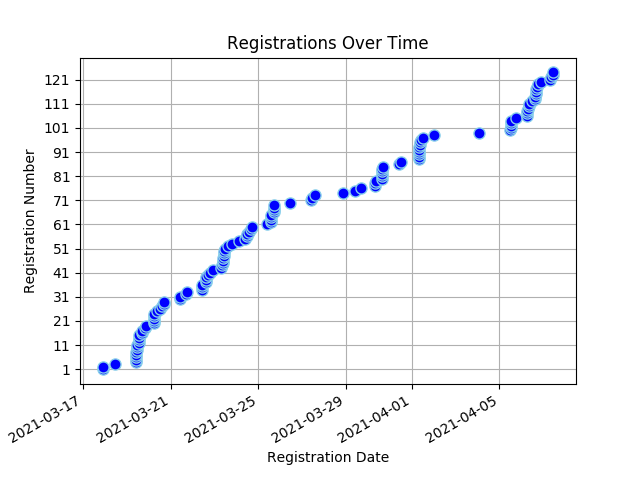
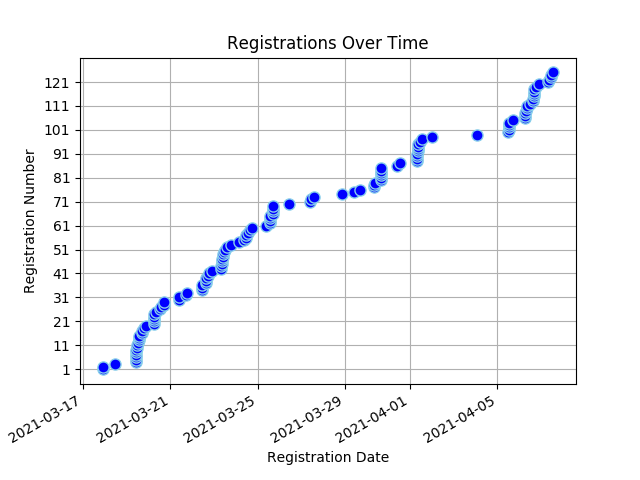
Registree stats backup on Wed 07 Apr 2021 13:58:55 SAST

diff --git a/content/registrees/_index.md b/content/registrees/_index.md
@@ -3,7 +3,7 @@ title: Registration Stats
 draft: false
 ---
 
-<ul><li><strong>Number of Registrees</strong>: 124</li>
+<ul><li><strong>Number of Registrees</strong>: 125</li>
 
 <li><strong>Number of Clubs</strong>: 46</li>
 
@@ -33,6 +33,6 @@ draft: false
         </tr>
     </thead>
     <tbody>
-<tr><td>Natalie Abrahams</td><td>Cape Town</td><td>410W</td></tr><tr><td>Linda Anderson</td><td>George</td><td>410W</td></tr><tr><td>Linda Baumgarten</td><td>Sea Point</td><td>410W</td></tr><tr><td>Ulrike Behrens</td><td>Windhoek</td><td>410W</td></tr><tr><td>Valencia Beukes-Williams</td><td>Kuilsriver</td><td>410W</td></tr><tr><td>JOSE BRAGA BORGES</td><td>Malmesbury</td><td>410W</td></tr><tr><td>Paul Brauteseth</td><td>Port Shepstone</td><td>410E</td></tr><tr><td>Nelle Buhrmann</td><td>Sea Point</td><td>410W</td></tr><tr><td>Herman Cadman</td><td>Stellenbosch</td><td>410W</td></tr><tr><td>Linda Ann Cannone</td><td>Fish Hoek</td><td>410W</td></tr><tr><td>Sue Charles</td><td>Tokai</td><td>410W</td></tr><tr><td>Perry Chetty</td><td>East Coast</td><td>410E</td></tr><tr><td>Esme Cornelius</td><td>Kuilsriver</td><td>410W</td></tr><tr><td>Sharon Cottle</td><td>Groote Schuur</td><td>410W</td></tr><tr><td>Peter Daniel</td><td>Gordons Bay</td><td>410W</td></tr><tr><td>Norma Daniel</td><td>Gordons Bay</td><td>410W</td></tr><tr><td>Engela de Kock</td><td>Swellendam</td><td>410W</td></tr><tr><td>Francois de Kock</td><td>Swellendam</td><td>410W</td></tr><tr><td>ANDRE DE VILLIERS</td><td>Malgas</td><td>410W</td></tr><tr><td>Peggy Du Plooy</td><td>Krugersdorp</td><td>410E</td></tr><tr><td>Ivan Du Plooy</td><td>Krugersdorp</td><td>410E</td></tr><tr><td>Desiree du Toit</td><td>Ramsgate</td><td>410E</td></tr><tr><td>Natalie Etridge</td><td>Sedgefield</td><td>410W</td></tr><tr><td>AIDAN Ewers</td><td>Newlands</td><td>410W</td></tr><tr><td>Roger Fahrbach</td><td>Windhoek</td><td>410W</td></tr><tr><td>Beate Fahrbach</td><td>Windhoek</td><td>410W</td></tr><tr><td>Charles Flanagan</td><td>Tokai</td><td>410W</td></tr><tr><td>Jules Flanagan</td><td>Tokai</td><td>410W</td></tr><tr><td>Martin Froise</td><td>Letaba Tzaneen</td><td>410E</td></tr><tr><td>Valerie Graham</td><td>Nelspruit</td><td>410E</td></tr><tr><td>Mike Graham</td><td>Nelspruit</td><td>410E</td></tr><tr><td>Viv Grater</td><td>Sedgefield</td><td>410W</td></tr><tr><td>Mattheus Groves</td><td>Sedgefield</td><td>410W</td></tr><tr><td>Barbara Haywood</td><td>Eden</td><td>410W</td></tr><tr><td>Mike Heathcote</td><td>Port Shepstone</td><td>410E</td></tr><tr><td>Dorothy Hess</td><td>Kuilsriver</td><td>410W</td></tr><tr><td>Wendy Higgins</td><td>Wilro Park</td><td>410E</td></tr><tr><td>Jacqui Hocking</td><td>Midrand</td><td>410E</td></tr><tr><td>Cliff Hocking</td><td>Midrand</td><td>410E</td></tr><tr><td>Liz Houston</td><td>Table View</td><td>410W</td></tr><tr><td>John Houston</td><td>Table View</td><td>410W</td></tr><tr><td>Dawid Jacobs</td><td>Durbanville</td><td>410W</td></tr><tr><td>Jean Jacobs</td><td>Mitchells Plain</td><td>410W</td></tr><tr><td>WOLSLEY Jacobson</td><td>Cape Town</td><td>410W</td></tr><tr><td>Grant Jonathan</td><td>Gordons Bay</td><td>410W</td></tr><tr><td>Jerome Kern</td><td>Groote Schuur</td><td>410W</td></tr><tr><td>Ian King</td><td>Alberton</td><td>410E</td></tr><tr><td>Muya Koloko</td><td>Durbanville</td><td>410W</td></tr><tr><td>Zwaai Kruger</td><td>Sedgefield</td><td>410W</td></tr><tr><td>Bevil Lakay</td><td>Mitchells Plain</td><td>410W</td></tr><tr><td>Paula Lang</td><td>Gordons Bay</td><td>410W</td></tr><tr><td>Jimmy Lang</td><td>Gordons Bay</td><td>410W</td></tr><tr><td>Heather Lee</td><td>Cape Of Good Hope</td><td>410W</td></tr><tr><td>Zarina Luck</td><td>Newcastle</td><td>410E</td></tr><tr><td>Sharon Mangwende</td><td>Cape Town</td><td>410W</td></tr><tr><td>Beaulieu Mare</td><td>Benoni Lakes</td><td>410E</td></tr><tr><td>Jean Masson</td><td>Port Shepstone</td><td>410E</td></tr><tr><td>LANCE MAYTHAM</td><td>Swellendam</td><td>410W</td></tr><tr><td>ROSEMARIE MAYTHAM</td><td>Swellendam</td><td>410W</td></tr><tr><td>David Mccullough</td><td>Pretoria South</td><td>410E</td></tr><tr><td>Alec McKerrow</td><td>Port Alfred</td><td>410E</td></tr><tr><td>Mark Meltzer</td><td>The Wilds</td><td>410E</td></tr><tr><td>Denis Meyer</td><td>Port Shepstone</td><td>410E</td></tr><tr><td>Roy Michas</td><td>Midrand</td><td>410E</td></tr><tr><td>Dawn Michas</td><td>Midrand</td><td>410E</td></tr><tr><td>BERNICE MILLS</td><td>Centurion</td><td>410E</td></tr><tr><td>Patrick Mills</td><td>Centurion</td><td>410E</td></tr><tr><td>Cherie Milosevich</td><td>Milnerton</td><td>410W</td></tr><tr><td>Virginia Mkhize</td><td>Cape Town</td><td>410W</td></tr><tr><td>Bernadine Moses</td><td>Cape Town</td><td>410W</td></tr><tr><td>Pieter Nel</td><td>George</td><td>410W</td></tr><tr><td>Tillie Nel</td><td>Eden</td><td>410W</td></tr><tr><td>Mike Newlands</td><td>Port Alfred</td><td>410E</td></tr><tr><td>Mike Newlands</td><td>Port Alfred</td><td>410E</td></tr><tr><td>Debra Olivier</td><td>Sedgefield</td><td>410W</td></tr><tr><td>Sundru Pillay</td><td>Durbanville</td><td>410W</td></tr><tr><td>BRIAN PORTEOUS</td><td>Hibberdene</td><td>410E</td></tr><tr><td>Hugo Reniers</td><td>Nelspruit</td><td>410E</td></tr><tr><td>Mark Rossouw</td><td>Tokai</td><td>410W</td></tr><tr><td>Irene Rugheimer</td><td>Bedfordview</td><td>410E</td></tr><tr><td>Ingrid Russell</td><td>Fish Hoek</td><td>410W</td></tr><tr><td>Sharon Sampie</td><td>Bergvliet</td><td>410W</td></tr><tr><td>Frank Schatz</td><td>Windhoek</td><td>410W</td></tr><tr><td>Vera Schatz</td><td>Windhoek</td><td>410W</td></tr><tr><td>Francis Searle</td><td>Kouga</td><td>410E</td></tr><tr><td>Gloria Searle</td><td>Kouga</td><td>410E</td></tr><tr><td>Ami Sell</td><td>Windhoek</td><td>410W</td></tr><tr><td>Beryl Simpson</td><td>Cape Town</td><td>410W</td></tr><tr><td>Kenlis Sircoulomb</td><td>Windhoek</td><td>410W</td></tr><tr><td>Holger Sircoulomb</td><td>Windhoek</td><td>410W</td></tr><tr><td>Hennie Smeer</td><td>Windhoek</td><td>410W</td></tr><tr><td>Sue Smit</td><td>Centurion</td><td>410E</td></tr><tr><td>Herman Smit</td><td>Swellendam</td><td>410W</td></tr><tr><td>Jeff Smith</td><td>Port Shepstone</td><td>410E</td></tr><tr><td>LYN SNYMAN</td><td>Deep South</td><td>410W</td></tr><tr><td>Diana Sochen</td><td>Sea Point</td><td>410W</td></tr><tr><td>Max Stander</td><td>Port Alfred</td><td>410E</td></tr><tr><td>Ashley Stander</td><td>Krugersdorp</td><td>410E</td></tr><tr><td>Brett Jason Stander</td><td>Krugersdorp</td><td>410E</td></tr><tr><td>RORY stier</td><td>Deep South</td><td>410W</td></tr><tr><td>Patrick Strauss</td><td>Kuilsriver</td><td>410W</td></tr><tr><td>Lauryn Talbot</td><td>Benoni Lakes</td><td>410E</td></tr><tr><td>Diane Townsend</td><td>Benoni Lakes</td><td>410E</td></tr><tr><td>Alistair Tuckett</td><td>Roodepoort Clearwater Cyber</td><td>410E</td></tr><tr><td>Carl van Blerk</td><td>Eden</td><td>410W</td></tr><tr><td>HILARY LISE VAN BREDA</td><td>Cape Town</td><td>410W</td></tr><tr><td>Marina Van de Merwe</td><td>Malmesbury</td><td>410W</td></tr><tr><td>Sydney van Heerden</td><td>Wilro Park</td><td>410E</td></tr><tr><td>Sandy van Heerden</td><td>Wilro Park</td><td>410E</td></tr><tr><td>Neville Van Rensburg</td><td>Moorreesburg</td><td>410W</td></tr><tr><td>Johan van Rensburg</td><td>Windhoek</td><td>410W</td></tr><tr><td>Anne van Rensburg</td><td>Windhoek</td><td>410W</td></tr><tr><td>Jeannie van Wulven</td><td>Tygerberg Hills</td><td>410W</td></tr><tr><td>Alan van Wulven</td><td>Tygerberg Hills</td><td>410W</td></tr><tr><td>Deon van Wulven</td><td>Tygerberg Hills</td><td>410W</td></tr><tr><td>Kim van Wyk</td><td>North Durban</td><td>410E</td></tr><tr><td>Edith Van Wyk-Nelson</td><td>Kuilsriver</td><td>410W</td></tr><tr><td>Brian von der Decken</td><td>King William's Town</td><td>410E</td></tr><tr><td>Rinette Von Mollendorf</td><td>Durbanville</td><td>410W</td></tr><tr><td>Rochelle Vorster</td><td>Sedgefield</td><td>410W</td></tr><tr><td>Alastair Warman</td><td>Port Shepstone</td><td>410E</td></tr><tr><td>Allan Watson</td><td>Sea Point</td><td>410W</td></tr><tr><td>Neville Williamson</td><td>Port Alfred</td><td>410E</td></tr><tr><td>Judy Young</td><td>Durbanville</td><td>410W</td></tr>
+<tr><td>Natalie Abrahams</td><td>Cape Town</td><td>410W</td></tr><tr><td>Linda Anderson</td><td>George</td><td>410W</td></tr><tr><td>Linda Baumgarten</td><td>Sea Point</td><td>410W</td></tr><tr><td>Ulrike Behrens</td><td>Windhoek</td><td>410W</td></tr><tr><td>Valencia Beukes-Williams</td><td>Kuilsriver</td><td>410W</td></tr><tr><td>JOSE BRAGA BORGES</td><td>Malmesbury</td><td>410W</td></tr><tr><td>Paul Brauteseth</td><td>Port Shepstone</td><td>410E</td></tr><tr><td>Nelle Buhrmann</td><td>Sea Point</td><td>410W</td></tr><tr><td>Herman Cadman</td><td>Stellenbosch</td><td>410W</td></tr><tr><td>Linda Ann Cannone</td><td>Fish Hoek</td><td>410W</td></tr><tr><td>Sue Charles</td><td>Tokai</td><td>410W</td></tr><tr><td>Perry Chetty</td><td>East Coast</td><td>410E</td></tr><tr><td>Esme Cornelius</td><td>Kuilsriver</td><td>410W</td></tr><tr><td>Sharon Cottle</td><td>Groote Schuur</td><td>410W</td></tr><tr><td>Peter Daniel</td><td>Gordons Bay</td><td>410W</td></tr><tr><td>Norma Daniel</td><td>Gordons Bay</td><td>410W</td></tr><tr><td>Engela de Kock</td><td>Swellendam</td><td>410W</td></tr><tr><td>Francois de Kock</td><td>Swellendam</td><td>410W</td></tr><tr><td>ANDRE DE VILLIERS</td><td>Malgas</td><td>410W</td></tr><tr><td>Peggy Du Plooy</td><td>Krugersdorp</td><td>410E</td></tr><tr><td>Ivan Du Plooy</td><td>Krugersdorp</td><td>410E</td></tr><tr><td>Desiree du Toit</td><td>Ramsgate</td><td>410E</td></tr><tr><td>Natalie Etridge</td><td>Sedgefield</td><td>410W</td></tr><tr><td>AIDAN Ewers</td><td>Newlands</td><td>410W</td></tr><tr><td>Roger Fahrbach</td><td>Windhoek</td><td>410W</td></tr><tr><td>Beate Fahrbach</td><td>Windhoek</td><td>410W</td></tr><tr><td>Charles Flanagan</td><td>Tokai</td><td>410W</td></tr><tr><td>Jules Flanagan</td><td>Tokai</td><td>410W</td></tr><tr><td>Martin Froise</td><td>Letaba Tzaneen</td><td>410E</td></tr><tr><td>Valerie Graham</td><td>Nelspruit</td><td>410E</td></tr><tr><td>Mike Graham</td><td>Nelspruit</td><td>410E</td></tr><tr><td>Viv Grater</td><td>Sedgefield</td><td>410W</td></tr><tr><td>Mattheus Groves</td><td>Sedgefield</td><td>410W</td></tr><tr><td>Barbara Haywood</td><td>Eden</td><td>410W</td></tr><tr><td>Mike Heathcote</td><td>Port Shepstone</td><td>410E</td></tr><tr><td>Dorothy Hess</td><td>Kuilsriver</td><td>410W</td></tr><tr><td>Wendy Higgins</td><td>Wilro Park</td><td>410E</td></tr><tr><td>Jacqui Hocking</td><td>Midrand</td><td>410E</td></tr><tr><td>Cliff Hocking</td><td>Midrand</td><td>410E</td></tr><tr><td>Liz Houston</td><td>Table View</td><td>410W</td></tr><tr><td>John Houston</td><td>Table View</td><td>410W</td></tr><tr><td>Dawid Jacobs</td><td>Durbanville</td><td>410W</td></tr><tr><td>Jean Jacobs</td><td>Mitchells Plain</td><td>410W</td></tr><tr><td>WOLSLEY Jacobson</td><td>Cape Town</td><td>410W</td></tr><tr><td>Grant Jonathan</td><td>Gordons Bay</td><td>410W</td></tr><tr><td>Jerome Kern</td><td>Groote Schuur</td><td>410W</td></tr><tr><td>Ian King</td><td>Alberton</td><td>410E</td></tr><tr><td>Muya Koloko</td><td>Durbanville</td><td>410W</td></tr><tr><td>Zwaai Kruger</td><td>Sedgefield</td><td>410W</td></tr><tr><td>Bevil Lakay</td><td>Mitchells Plain</td><td>410W</td></tr><tr><td>Paula Lang</td><td>Gordons Bay</td><td>410W</td></tr><tr><td>Jimmy Lang</td><td>Gordons Bay</td><td>410W</td></tr><tr><td>Heather Lee</td><td>Cape Of Good Hope</td><td>410W</td></tr><tr><td>Zarina Luck</td><td>Newcastle</td><td>410E</td></tr><tr><td>Sharon Mangwende</td><td>Cape Town</td><td>410W</td></tr><tr><td>Beaulieu Mare</td><td>Benoni Lakes</td><td>410E</td></tr><tr><td>Jean Masson</td><td>Port Shepstone</td><td>410E</td></tr><tr><td>LANCE MAYTHAM</td><td>Swellendam</td><td>410W</td></tr><tr><td>ROSEMARIE MAYTHAM</td><td>Swellendam</td><td>410W</td></tr><tr><td>David Mccullough</td><td>Pretoria South</td><td>410E</td></tr><tr><td>Alec McKerrow</td><td>Port Alfred</td><td>410E</td></tr><tr><td>Mark Meltzer</td><td>The Wilds</td><td>410E</td></tr><tr><td>Denis Meyer</td><td>Port Shepstone</td><td>410E</td></tr><tr><td>Roy Michas</td><td>Midrand</td><td>410E</td></tr><tr><td>Dawn Michas</td><td>Midrand</td><td>410E</td></tr><tr><td>BERNICE MILLS</td><td>Centurion</td><td>410E</td></tr><tr><td>Patrick Mills</td><td>Centurion</td><td>410E</td></tr><tr><td>Cherie Milosevich</td><td>Milnerton</td><td>410W</td></tr><tr><td>Virginia Mkhize</td><td>Cape Town</td><td>410W</td></tr><tr><td>Bernadine Moses</td><td>Cape Town</td><td>410W</td></tr><tr><td>Pieter Nel</td><td>George</td><td>410W</td></tr><tr><td>Tillie Nel</td><td>Eden</td><td>410W</td></tr><tr><td>Mike Newlands</td><td>Port Alfred</td><td>410E</td></tr><tr><td>Mike Newlands</td><td>Port Alfred</td><td>410E</td></tr><tr><td>Debra Olivier</td><td>Sedgefield</td><td>410W</td></tr><tr><td>Sundru Pillay</td><td>Durbanville</td><td>410W</td></tr><tr><td>BRIAN PORTEOUS</td><td>Hibberdene</td><td>410E</td></tr><tr><td>Hugo Reniers</td><td>Nelspruit</td><td>410E</td></tr><tr><td>Mark Rossouw</td><td>Tokai</td><td>410W</td></tr><tr><td>Irene Rugheimer</td><td>Bedfordview</td><td>410E</td></tr><tr><td>Ingrid Russell</td><td>Fish Hoek</td><td>410W</td></tr><tr><td>Sharon Sampie</td><td>Bergvliet</td><td>410W</td></tr><tr><td>Frank Schatz</td><td>Windhoek</td><td>410W</td></tr><tr><td>Vera Schatz</td><td>Windhoek</td><td>410W</td></tr><tr><td>Francis Searle</td><td>Kouga</td><td>410E</td></tr><tr><td>Gloria Searle</td><td>Kouga</td><td>410E</td></tr><tr><td>Ami Sell</td><td>Windhoek</td><td>410W</td></tr><tr><td>Beryl Simpson</td><td>Cape Town</td><td>410W</td></tr><tr><td>Kenlis Sircoulomb</td><td>Windhoek</td><td>410W</td></tr><tr><td>Holger Sircoulomb</td><td>Windhoek</td><td>410W</td></tr><tr><td>Hennie Smeer</td><td>Windhoek</td><td>410W</td></tr><tr><td>Sue Smit</td><td>Centurion</td><td>410E</td></tr><tr><td>Herman Smit</td><td>Swellendam</td><td>410W</td></tr><tr><td>Jeff Smith</td><td>Port Shepstone</td><td>410E</td></tr><tr><td>LYN SNYMAN</td><td>Deep South</td><td>410W</td></tr><tr><td>Diana Sochen</td><td>Sea Point</td><td>410W</td></tr><tr><td>Max Stander</td><td>Port Alfred</td><td>410E</td></tr><tr><td>Ashley Stander</td><td>Krugersdorp</td><td>410E</td></tr><tr><td>Brett Jason Stander</td><td>Krugersdorp</td><td>410E</td></tr><tr><td>RORY stier</td><td>Deep South</td><td>410W</td></tr><tr><td>Patrick Strauss</td><td>Kuilsriver</td><td>410W</td></tr><tr><td>Lauryn Talbot</td><td>Benoni Lakes</td><td>410E</td></tr><tr><td>Diane Townsend</td><td>Benoni Lakes</td><td>410E</td></tr><tr><td>Diane Townsend</td><td>Benoni Lakes</td><td>410E</td></tr><tr><td>Alistair Tuckett</td><td>Roodepoort Clearwater Cyber</td><td>410E</td></tr><tr><td>Carl van Blerk</td><td>Eden</td><td>410W</td></tr><tr><td>HILARY LISE VAN BREDA</td><td>Cape Town</td><td>410W</td></tr><tr><td>Marina Van de Merwe</td><td>Malmesbury</td><td>410W</td></tr><tr><td>Sydney van Heerden</td><td>Wilro Park</td><td>410E</td></tr><tr><td>Sandy van Heerden</td><td>Wilro Park</td><td>410E</td></tr><tr><td>Neville Van Rensburg</td><td>Moorreesburg</td><td>410W</td></tr><tr><td>Johan van Rensburg</td><td>Windhoek</td><td>410W</td></tr><tr><td>Anne van Rensburg</td><td>Windhoek</td><td>410W</td></tr><tr><td>Jeannie van Wulven</td><td>Tygerberg Hills</td><td>410W</td></tr><tr><td>Alan van Wulven</td><td>Tygerberg Hills</td><td>410W</td></tr><tr><td>Deon van Wulven</td><td>Tygerberg Hills</td><td>410W</td></tr><tr><td>Kim van Wyk</td><td>North Durban</td><td>410E</td></tr><tr><td>Edith Van Wyk-Nelson</td><td>Kuilsriver</td><td>410W</td></tr><tr><td>Brian von der Decken</td><td>King William's Town</td><td>410E</td></tr><tr><td>Rinette Von Mollendorf</td><td>Durbanville</td><td>410W</td></tr><tr><td>Rochelle Vorster</td><td>Sedgefield</td><td>410W</td></tr><tr><td>Alastair Warman</td><td>Port Shepstone</td><td>410E</td></tr><tr><td>Allan Watson</td><td>Sea Point</td><td>410W</td></tr><tr><td>Neville Williamson</td><td>Port Alfred</td><td>410E</td></tr><tr><td>Judy Young</td><td>Durbanville</td><td>410W</td></tr>
 </tbody>
 </table>

diff --git a/content/full_stats/_index.md b/content/full_stats/_index.md
@@ -16,17 +16,17 @@ draft: false
 </head>
 <body>
 <h1 style="color: #000000;">Full Registration Stats</h1>
-<ul><li><strong>Number of Registrees</strong>: 124</li>
+<ul><li><strong>Number of Registrees</strong>: 125</li>
 <li><strong>Number of Clubs</strong>: 46</li>
 <li><strong>Club With Most Attendees</strong>: Windhoek (11 registrees)</li>
 
 <li><strong>Number of District 410W Convention Attendees</strong>: 77</li>
 <li><strong>Number of District 410W Convention Voters</strong>: 37</li>
-<li><strong>Number of District 410E Convention Attendees</strong>: 44</li>
-<li><strong>Number of District 410E Convention Voters</strong>: 25</li>
+<li><strong>Number of District 410E Convention Attendees</strong>: 45</li>
+<li><strong>Number of District 410E Convention Voters</strong>: 26</li>
 
-<li><strong>Number of MD410 Convention Attendees</strong>: 105</li>
-<li><strong>Number of MD410 Convention Voters</strong>: 56</li>
+<li><strong>Number of MD410 Convention Attendees</strong>: 106</li>
+<li><strong>Number of MD410 Convention Voters</strong>: 57</li>
 
 </ul>
 <h2>Registrees</h2>
@@ -1191,6 +1191,17 @@ draft: false
 <td style="background-color: lightgreen">Yes</td>
 <td>No</td>
 <td>No</td>
+</tr>
+
+    
+<td>132</td>
+<td>Diane Townsend</td>
+<td>Benoni Lakes</td>
+<td>410E</td>
+<td style="background-color: lightgreen">Yes</td>
+<td style="background-color: lightgreen">Yes</td>
+<td style="background-color: lightgreen">Yes</td>
+<td style="background-color: lightgreen">Yes</td>
 </tr>
 
     
